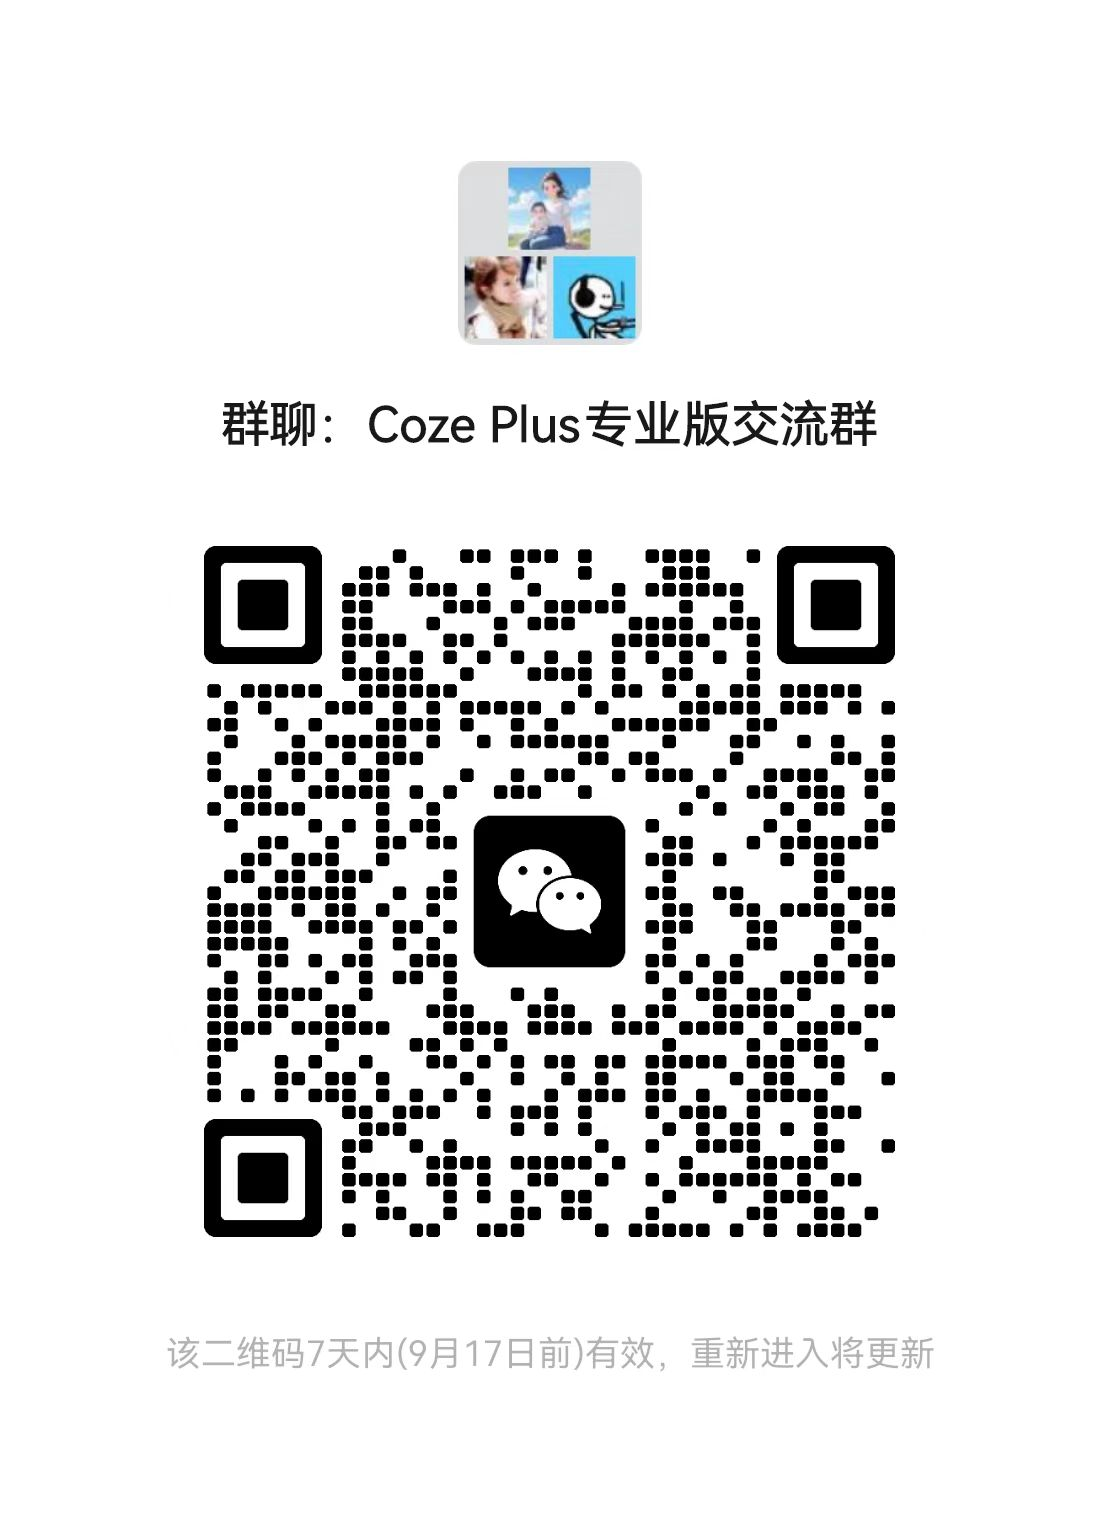
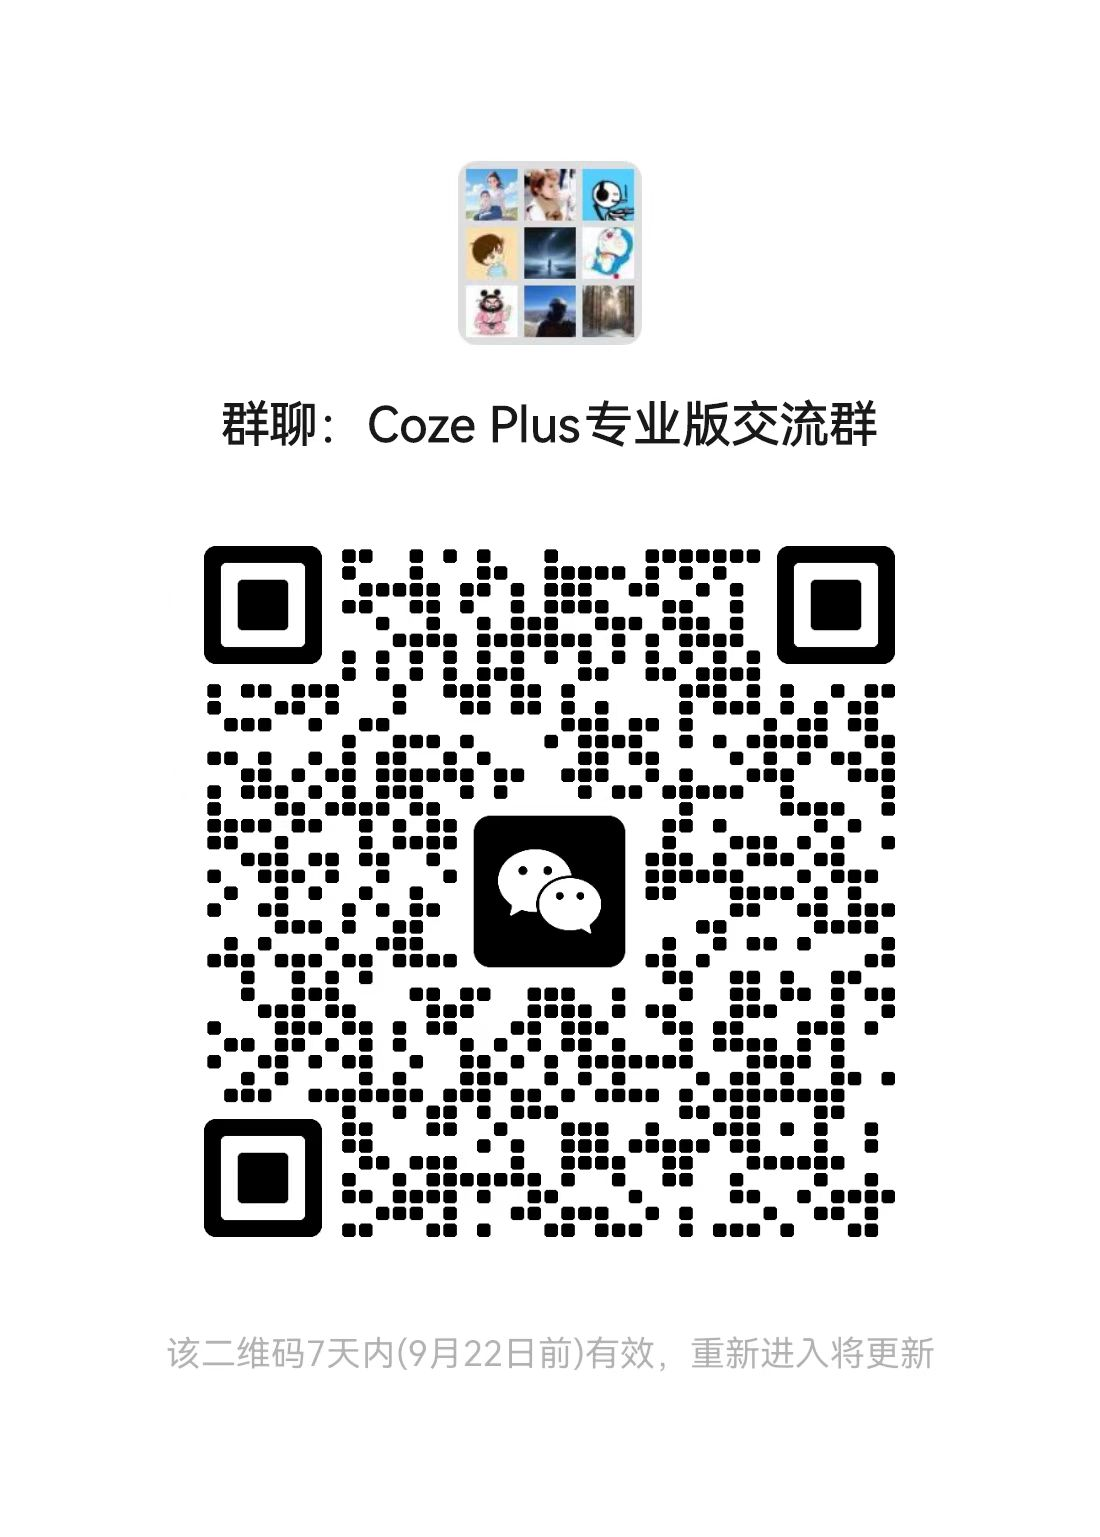
feat: update chat group images

Changed region(s): [[0.1855, 0.3435, 0.8345, 0.812], [0.4018, 0.0937, 0.5873, 0.2186]]

diff --git a/README.md b/README.md
@@ -90,7 +90,7 @@ Coze Plus 采用现代化技术架构，后端基于 Golang + Hertz 框架，前
    ```
 
 4. 访问系统
-   * 打开浏览器访问 `http://localhost:8888/`
+   * 打开浏览器访问 `http://localhost:80/`
    * 使用超级管理员账号登录：
      - 邮箱：`administrator@coze-plus.cn`
      - 密码：`coze-plus123456`
